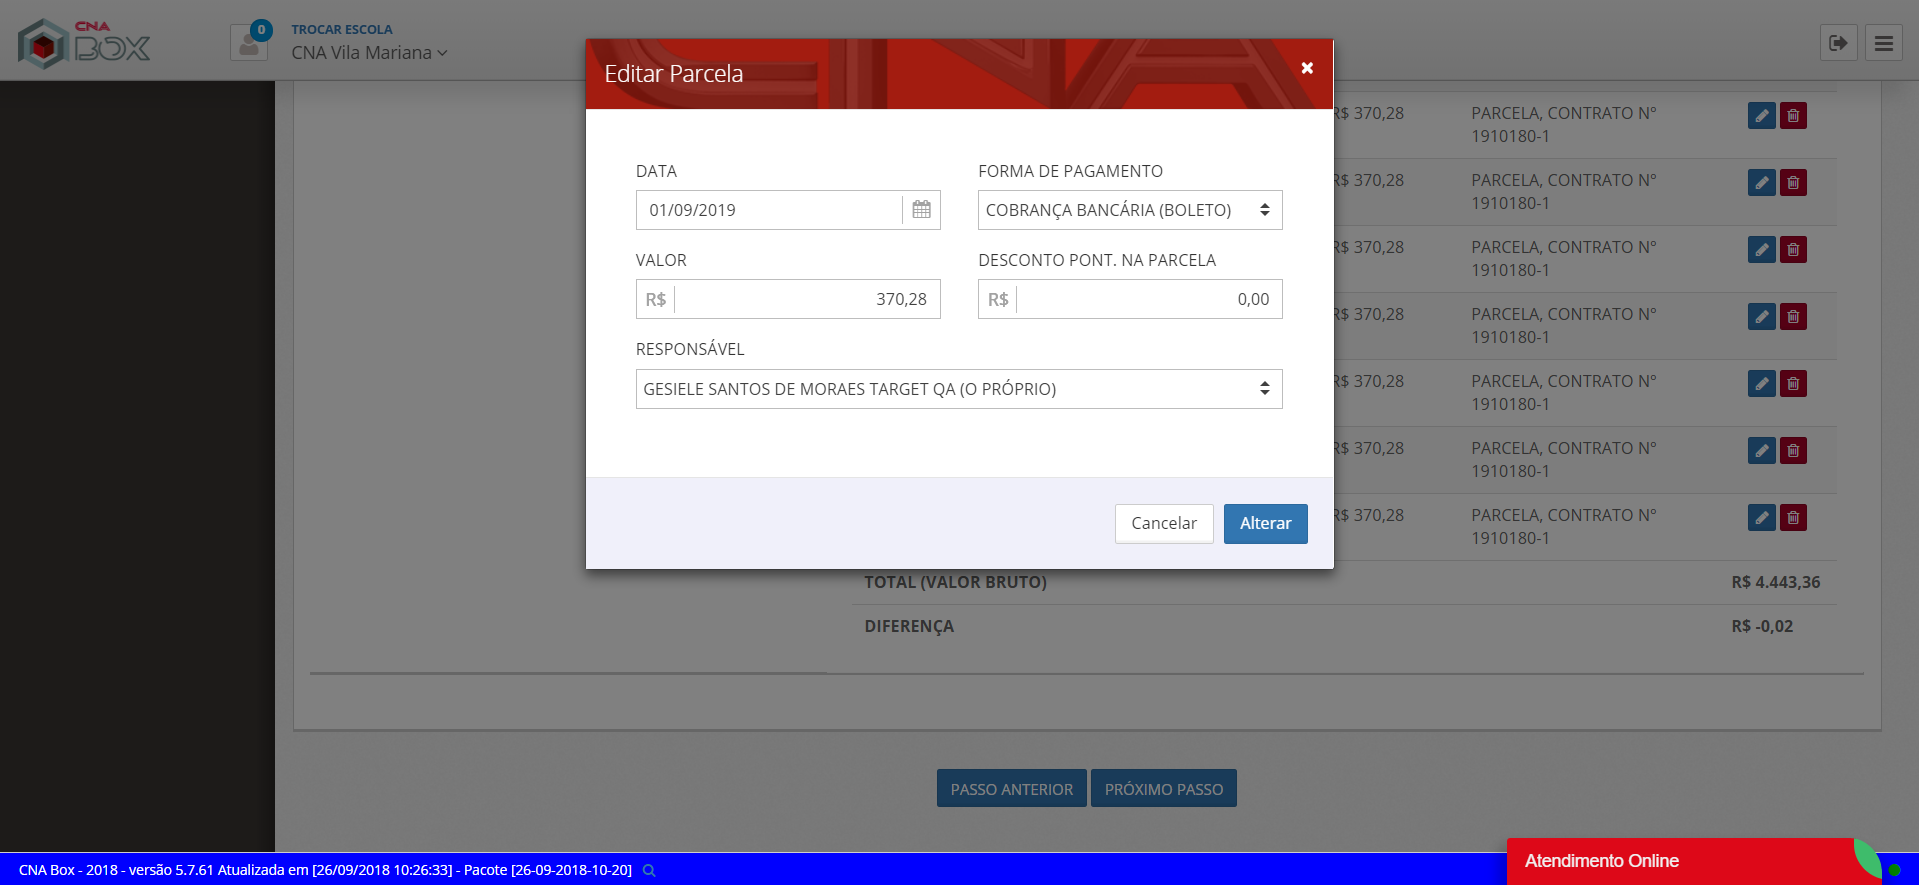
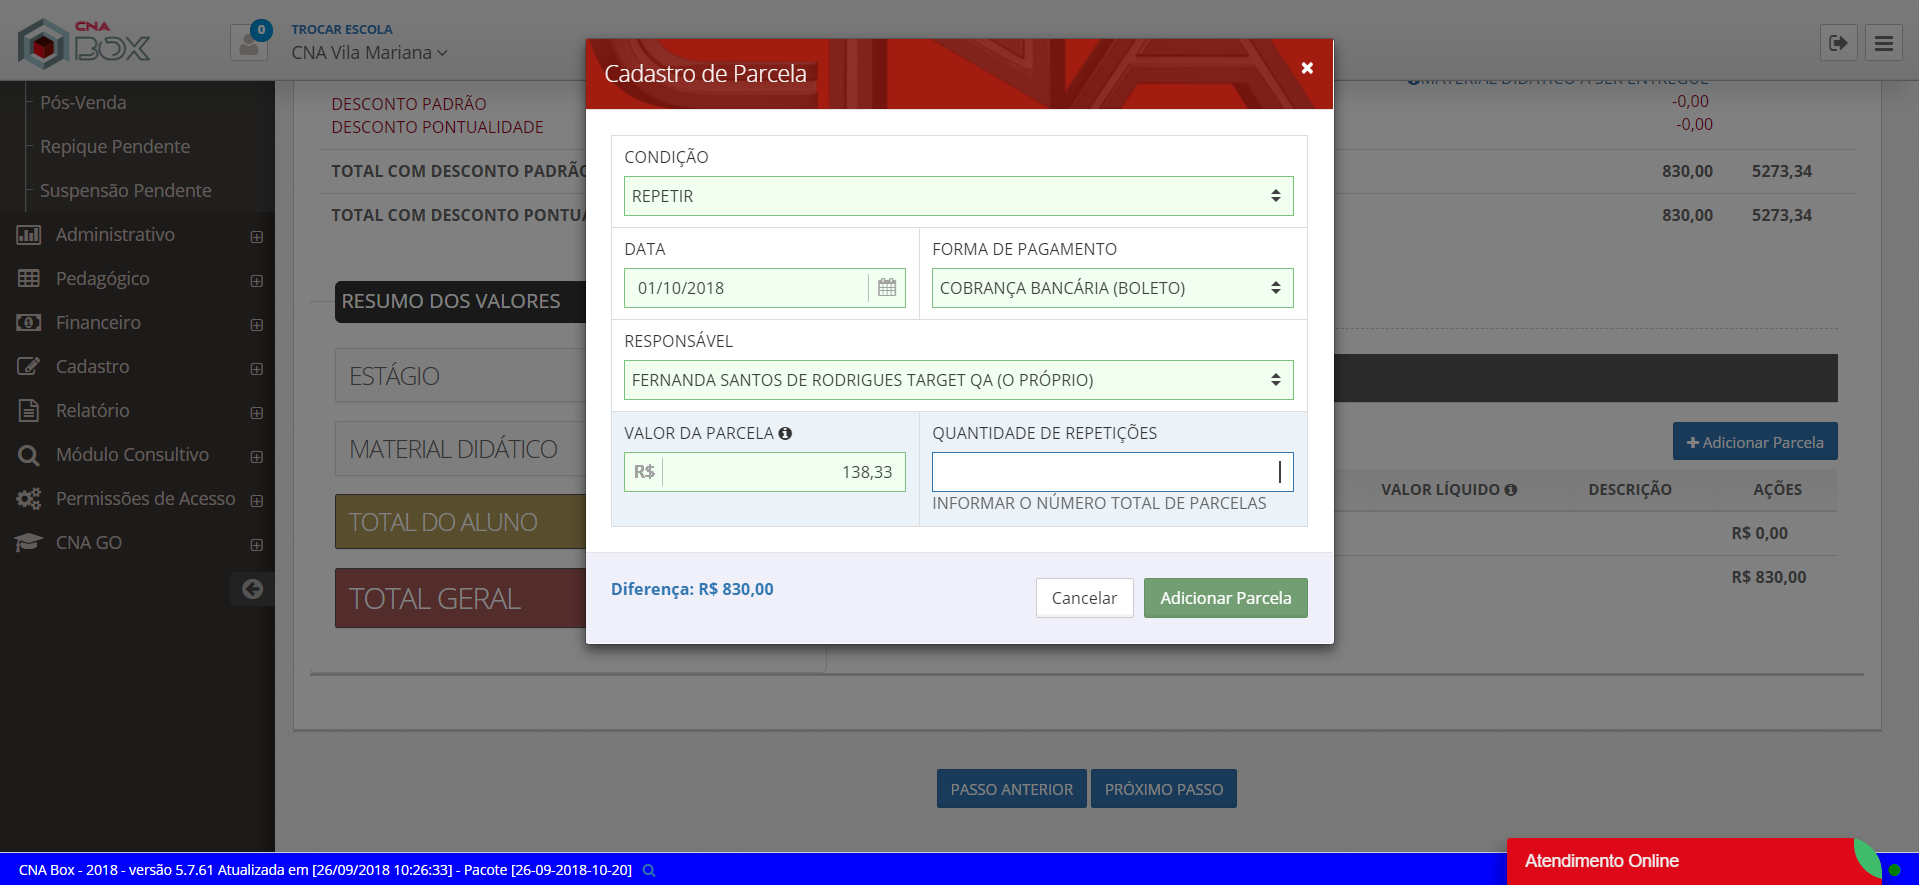
Atualiza12

diff --git a/src/test/java/Page/GerarContratosFormaPGPersonalizado/ProcessoMatriculaPGBoletoPage.java b/src/test/java/Page/GerarContratosFormaPGPersonalizado/ProcessoMatriculaPGBoletoPage.java
@@ -536,7 +536,7 @@ public class ProcessoMatriculaPGBoletoPage extends BasePage {
  		
  		public void SetresponsavelMD()throws InterruptedException {
 			
-			clicarBotaoBy(By.id("ResponsavelId"));
+			clicarBotaoBy(By.cssSelector("#lancamento-adicionar .modal-dialog .modal-content [action='\\/Lancamento\\/Save'] .modal-body.smart-form > table:nth-child(1) > tbody:nth-child(2) > tr:nth-child(6) [colspan='5'] .select.state-success #ResponsavelId"));
 			Thread.sleep(2000);
 			try {
 				Robot robot = new Robot();
@@ -546,6 +546,8 @@ public class ProcessoMatriculaPGBoletoPage extends BasePage {
 				throw new WebDriverException("VK_PAGE_DOWN", ex);
 
 			}
+			
+			clicarBotaoBy(By.cssSelector("#lancamento-adicionar tr:nth-of-type(6) [colspan]"));
 		}
  		
  		public void SetValordaparcela() throws InterruptedException{
@@ -553,12 +555,23 @@ public class ProcessoMatriculaPGBoletoPage extends BasePage {
  	 		clicarBotaoBy(By.id("ValorDaRepeticao"));
  	 		Tempo(2000);
  	 		escreveTexto(By.id("ValorDaRepeticao"), "138,33");
+ 	 		try {
+				Robot robot = new Robot();
+				robot.keyPress(KeyEvent.VK_TAB);
+				robot.keyRelease(KeyEvent.VK_TAB);
+			} catch (AWTException ex) {
+				throw new WebDriverException("VK_TAB", ex);
+
+			}
  	 	}
  		public void Setquantidadeparcela() throws InterruptedException{
  	 		
- 	 		clicarBotaoBy(By.id("NumeroRepeticoes"));
+ 	 		//clicarBotaoBy(By.xpath("/html//input[@id='NumeroRepeticoes']"));
  	 		Tempo(2000);
- 	 		escreveTexto(By.id("NumeroRepeticoes"), "6");
+ 	 		escreveTexto(By.xpath("/html//input[@id='NumeroRepeticoes']"), "6");
+ 	 		Tempo(2000);
+ 	 		
+ 	 		
  	 	}
  		
  		public void SetAdicionarMD() throws InterruptedException{
@@ -575,11 +588,13 @@ public class ProcessoMatriculaPGBoletoPage extends BasePage {
  		
  		public void Ajustarparcelalancamento() throws InterruptedException{
  	 		
- 	 		clicarBotaoBy(By.id("ValorParcela"));
+ 	 		clicarBotaoBy(By.cssSelector("#lancamento-editar #ValorParcela"));
+ 	 		Tempo(3000);
+ 	 		getDriver().findElement(By.cssSelector("#lancamento-editar #ValorParcela")).clear();
  	 		Tempo(2000);
- 	 		getDriver().findElement(By.id("ValorParcela")).clear();
- 	 		getDriver().findElement(By.id("ValorParcela")).click();
- 	 		getDriver().findElement(By.id("ValorParcela")).sendKeys("370,26");
+ 	 		getDriver().findElement(By.cssSelector("#lancamento-editar #ValorParcela")).click();
+ 	 		Tempo(2000);
+ 	 		getDriver().findElement(By.cssSelector("#lancamento-editar #ValorParcela")).sendKeys("370,26");
  	 		Tempo(2000);
  		}
  		

diff --git a/src/test/java/tests/GerarContratosFormaPGPersonalizado/ProcessoMatriculaPGBoletoTest.java b/src/test/java/tests/GerarContratosFormaPGPersonalizado/ProcessoMatriculaPGBoletoTest.java
@@ -134,15 +134,16 @@ public class ProcessoMatriculaPGBoletoTest extends BaseTest {
 			page.Ajustarparcela();
 			page.Tempo(2000);
 			page.RolarPagina();
-			page.Tempo(2000);
+			page.Tempo(3000);
 			page.Ajustarparcelalancamento();
-			page.Tempo(1000);
+			page.Tempo(2000);
 			page.PageUp();
 			page.Tempo(2000);
 			page.Adicionarajuste();
-			
+			page.Tempo(2000);
+			page.PageUp();
 	//////// Material//////////////		
-			
+			page.Tempo(2000);
 			page.SetLancarmaterial();
 			page.Tempo(2000);
 			page.SetAdicionarparcelaMate();
@@ -152,13 +153,13 @@ public class ProcessoMatriculaPGBoletoTest extends BaseTest {
 			page.Setdatamaterial("01102018");
 			page.Tempo(1000);
 			page.SetAdicionarformadepagamentoMD("6");
-			page.Tempo(1000);
+			page.Tempo(2000);
 			page.SetresponsavelMD();
-			page.Tempo(1000);
+			page.Tempo(2000);
 			page.SetValordaparcela();
-			page.Tempo(1000);
+			page.Tempo(2000);
 			page.SetQuantidadedeparcelas();
-			page.Tempo(1000);
+			page.Tempo(2000);
 			page.SetAdicionarMD();
 			
 			
